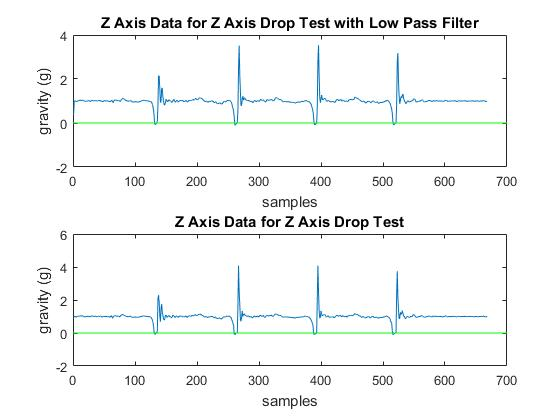
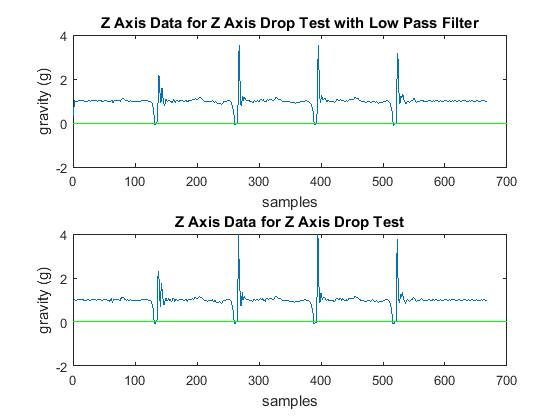
fixed some plots for paper and pres

diff --git a/MATLAB_GUI/Skate_GUI.m b/MATLAB_GUI/Skate_GUI.m
@@ -205,8 +205,8 @@ switch data_type
         ylabel(handles.middle_graph, 'gravity (g)')
         
         plot(handles.right_graph, 1:length(handles.accel(:,3)), right_plot);
-        title(handles.middle_graph, 'Z Axis Accelerometer Data')
-        ylabel(handles.middle_graph, 'gravity (g)')
+        title(handles.right_graph, 'Z Axis Accelerometer Data')
+        ylabel(handles.right_graph, 'gravity (g)')
     case 'Angles'
         %checks if filtered analysis type choosen
         if strcmp(handles.analysis_type, 'Filtered')

diff --git a/IMU_Data/filterTests.m b/IMU_Data/filterTests.m
@@ -1038,6 +1038,7 @@ ylabel('gravity (g)')
 xlabel('samples')
 legend('show');
 legend('AccelX', 'AccelY', 'AccelZ');
+axis([0 800 -2 4])
 
 % isolated axis plotting for targeted axis being tested
 % x axis
@@ -1098,10 +1099,10 @@ plot(dropZ4g(:,3))
 title('Z Axis Data for Z Axis Drop Test')
 ylabel('gravity (g)')
 xlabel('samples')
+axis([0 700 -2 4])
 meanLine = refline(0, 0);
 meanLine.Color = 'g';
-ylabel('gravity (g)')
-xlabel('samples')
+
 
 %% Second batch of rotation tests. From arduino
 %% Load Data set
